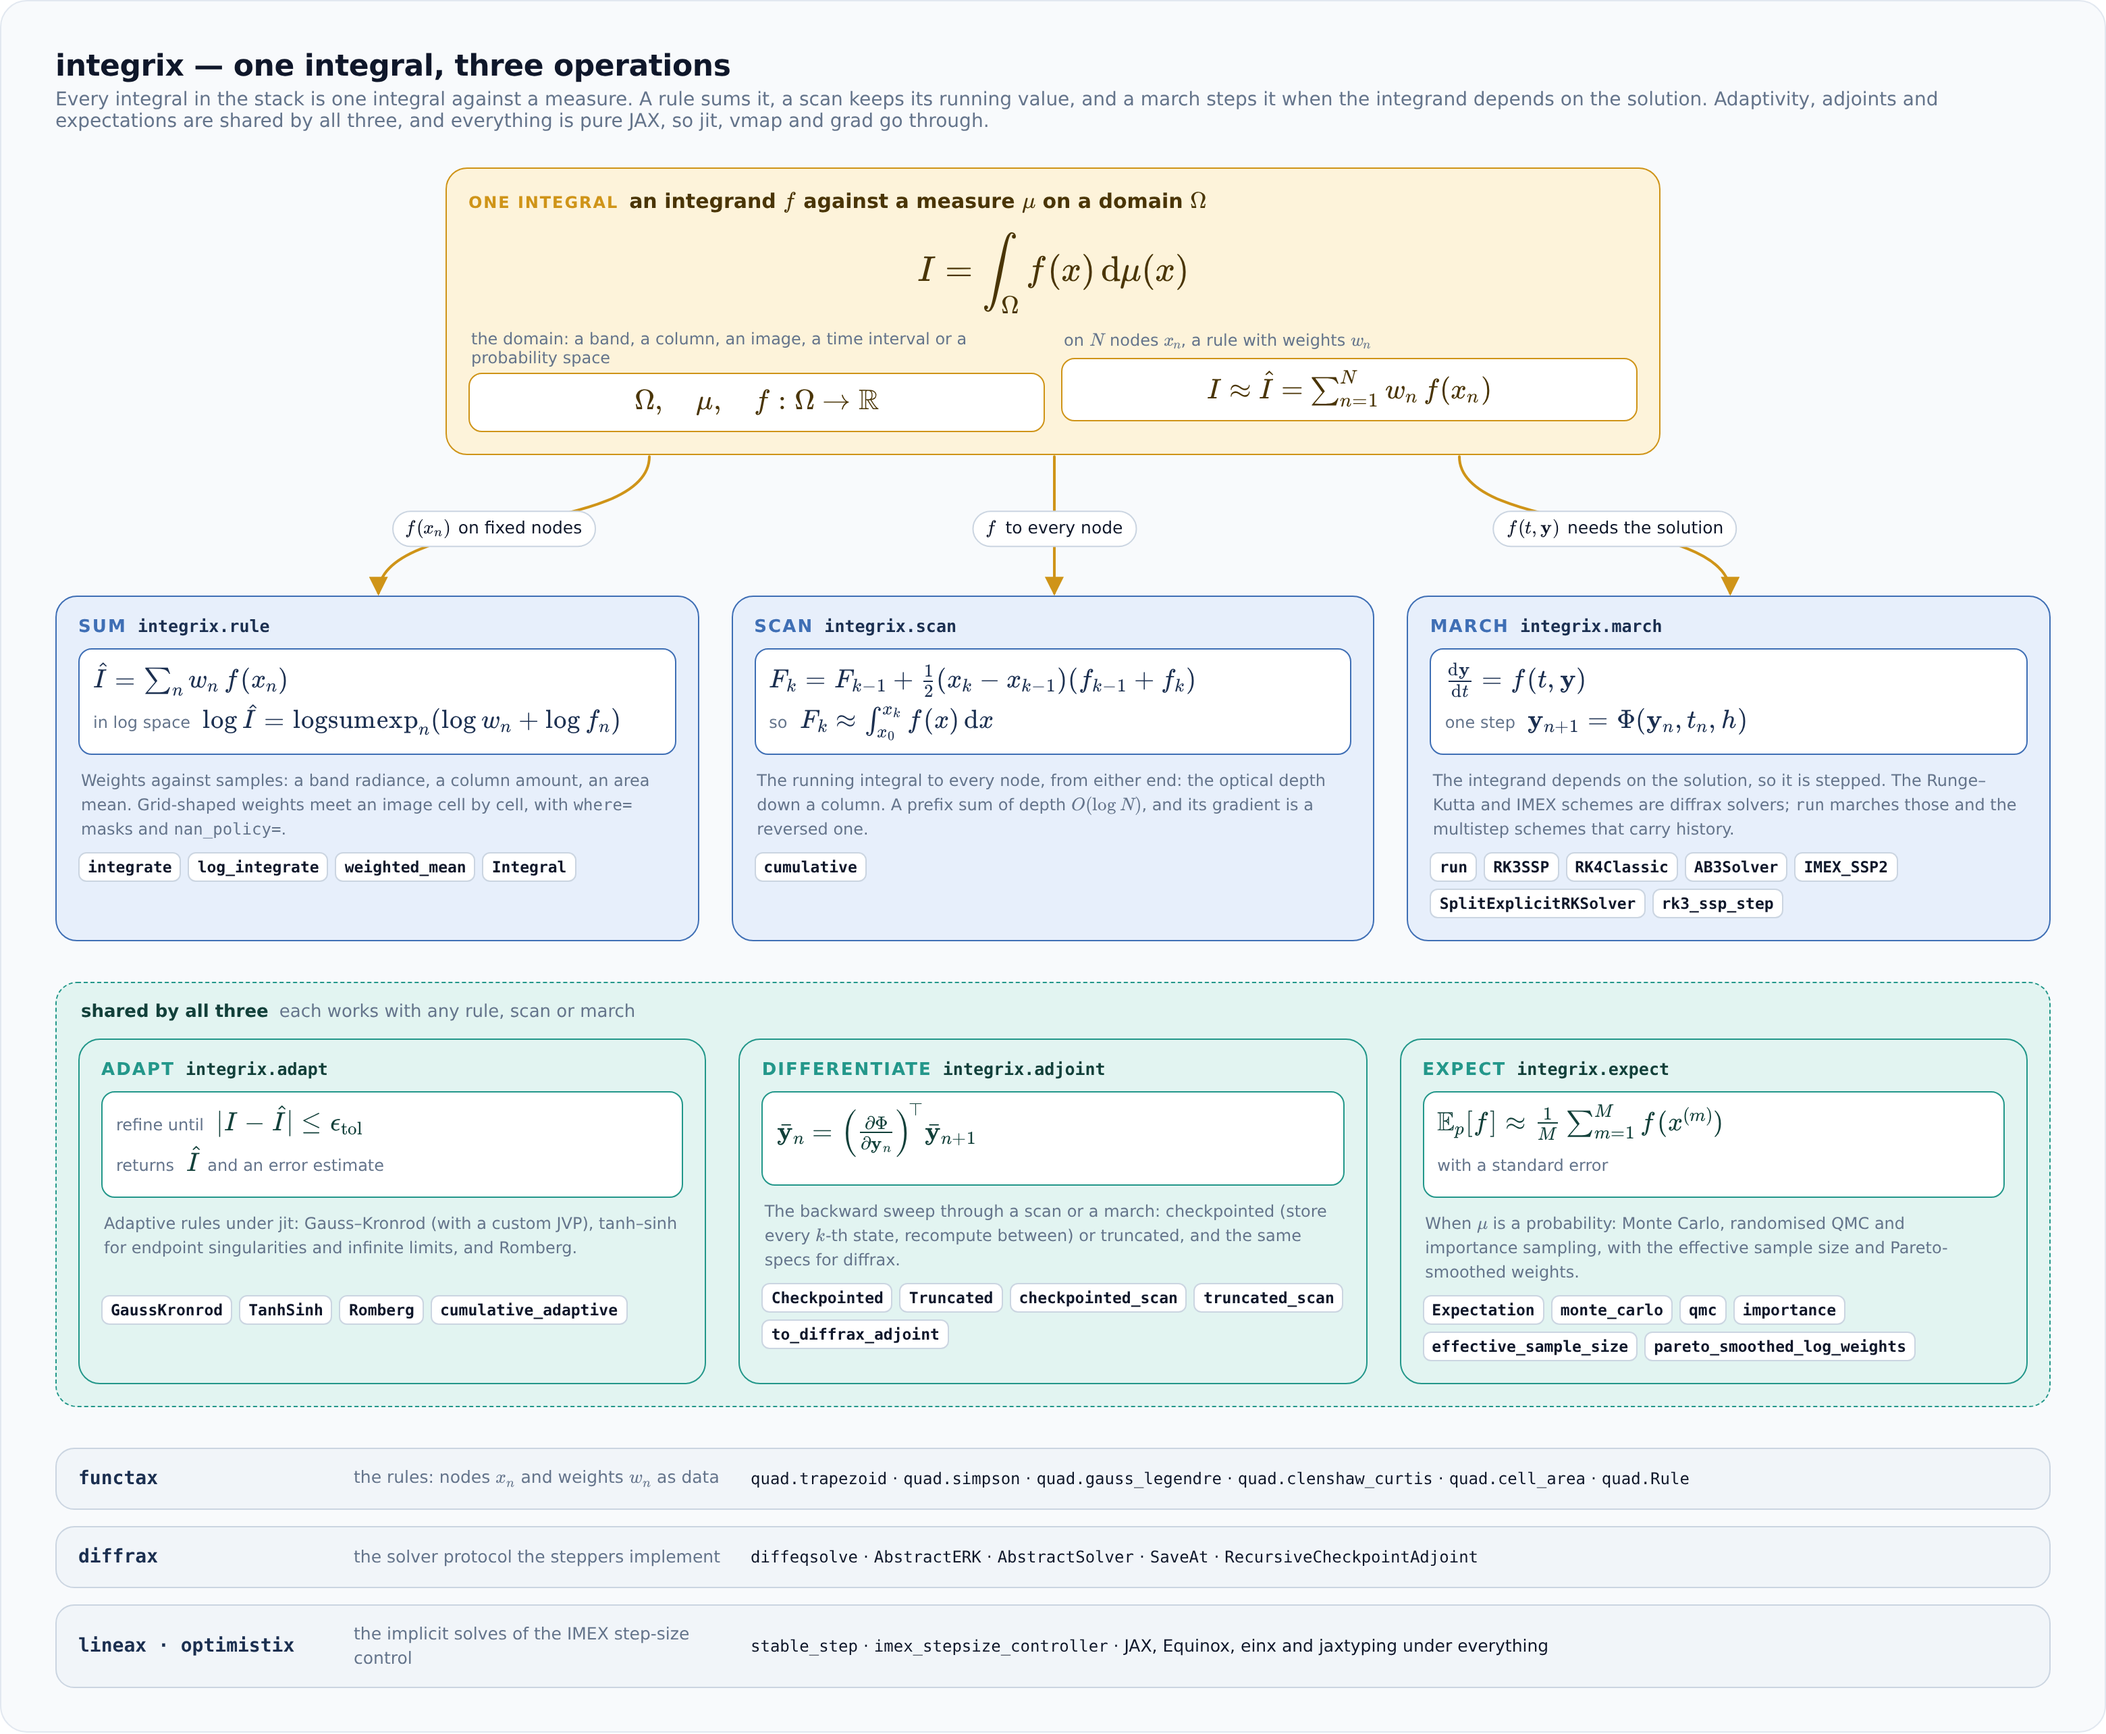
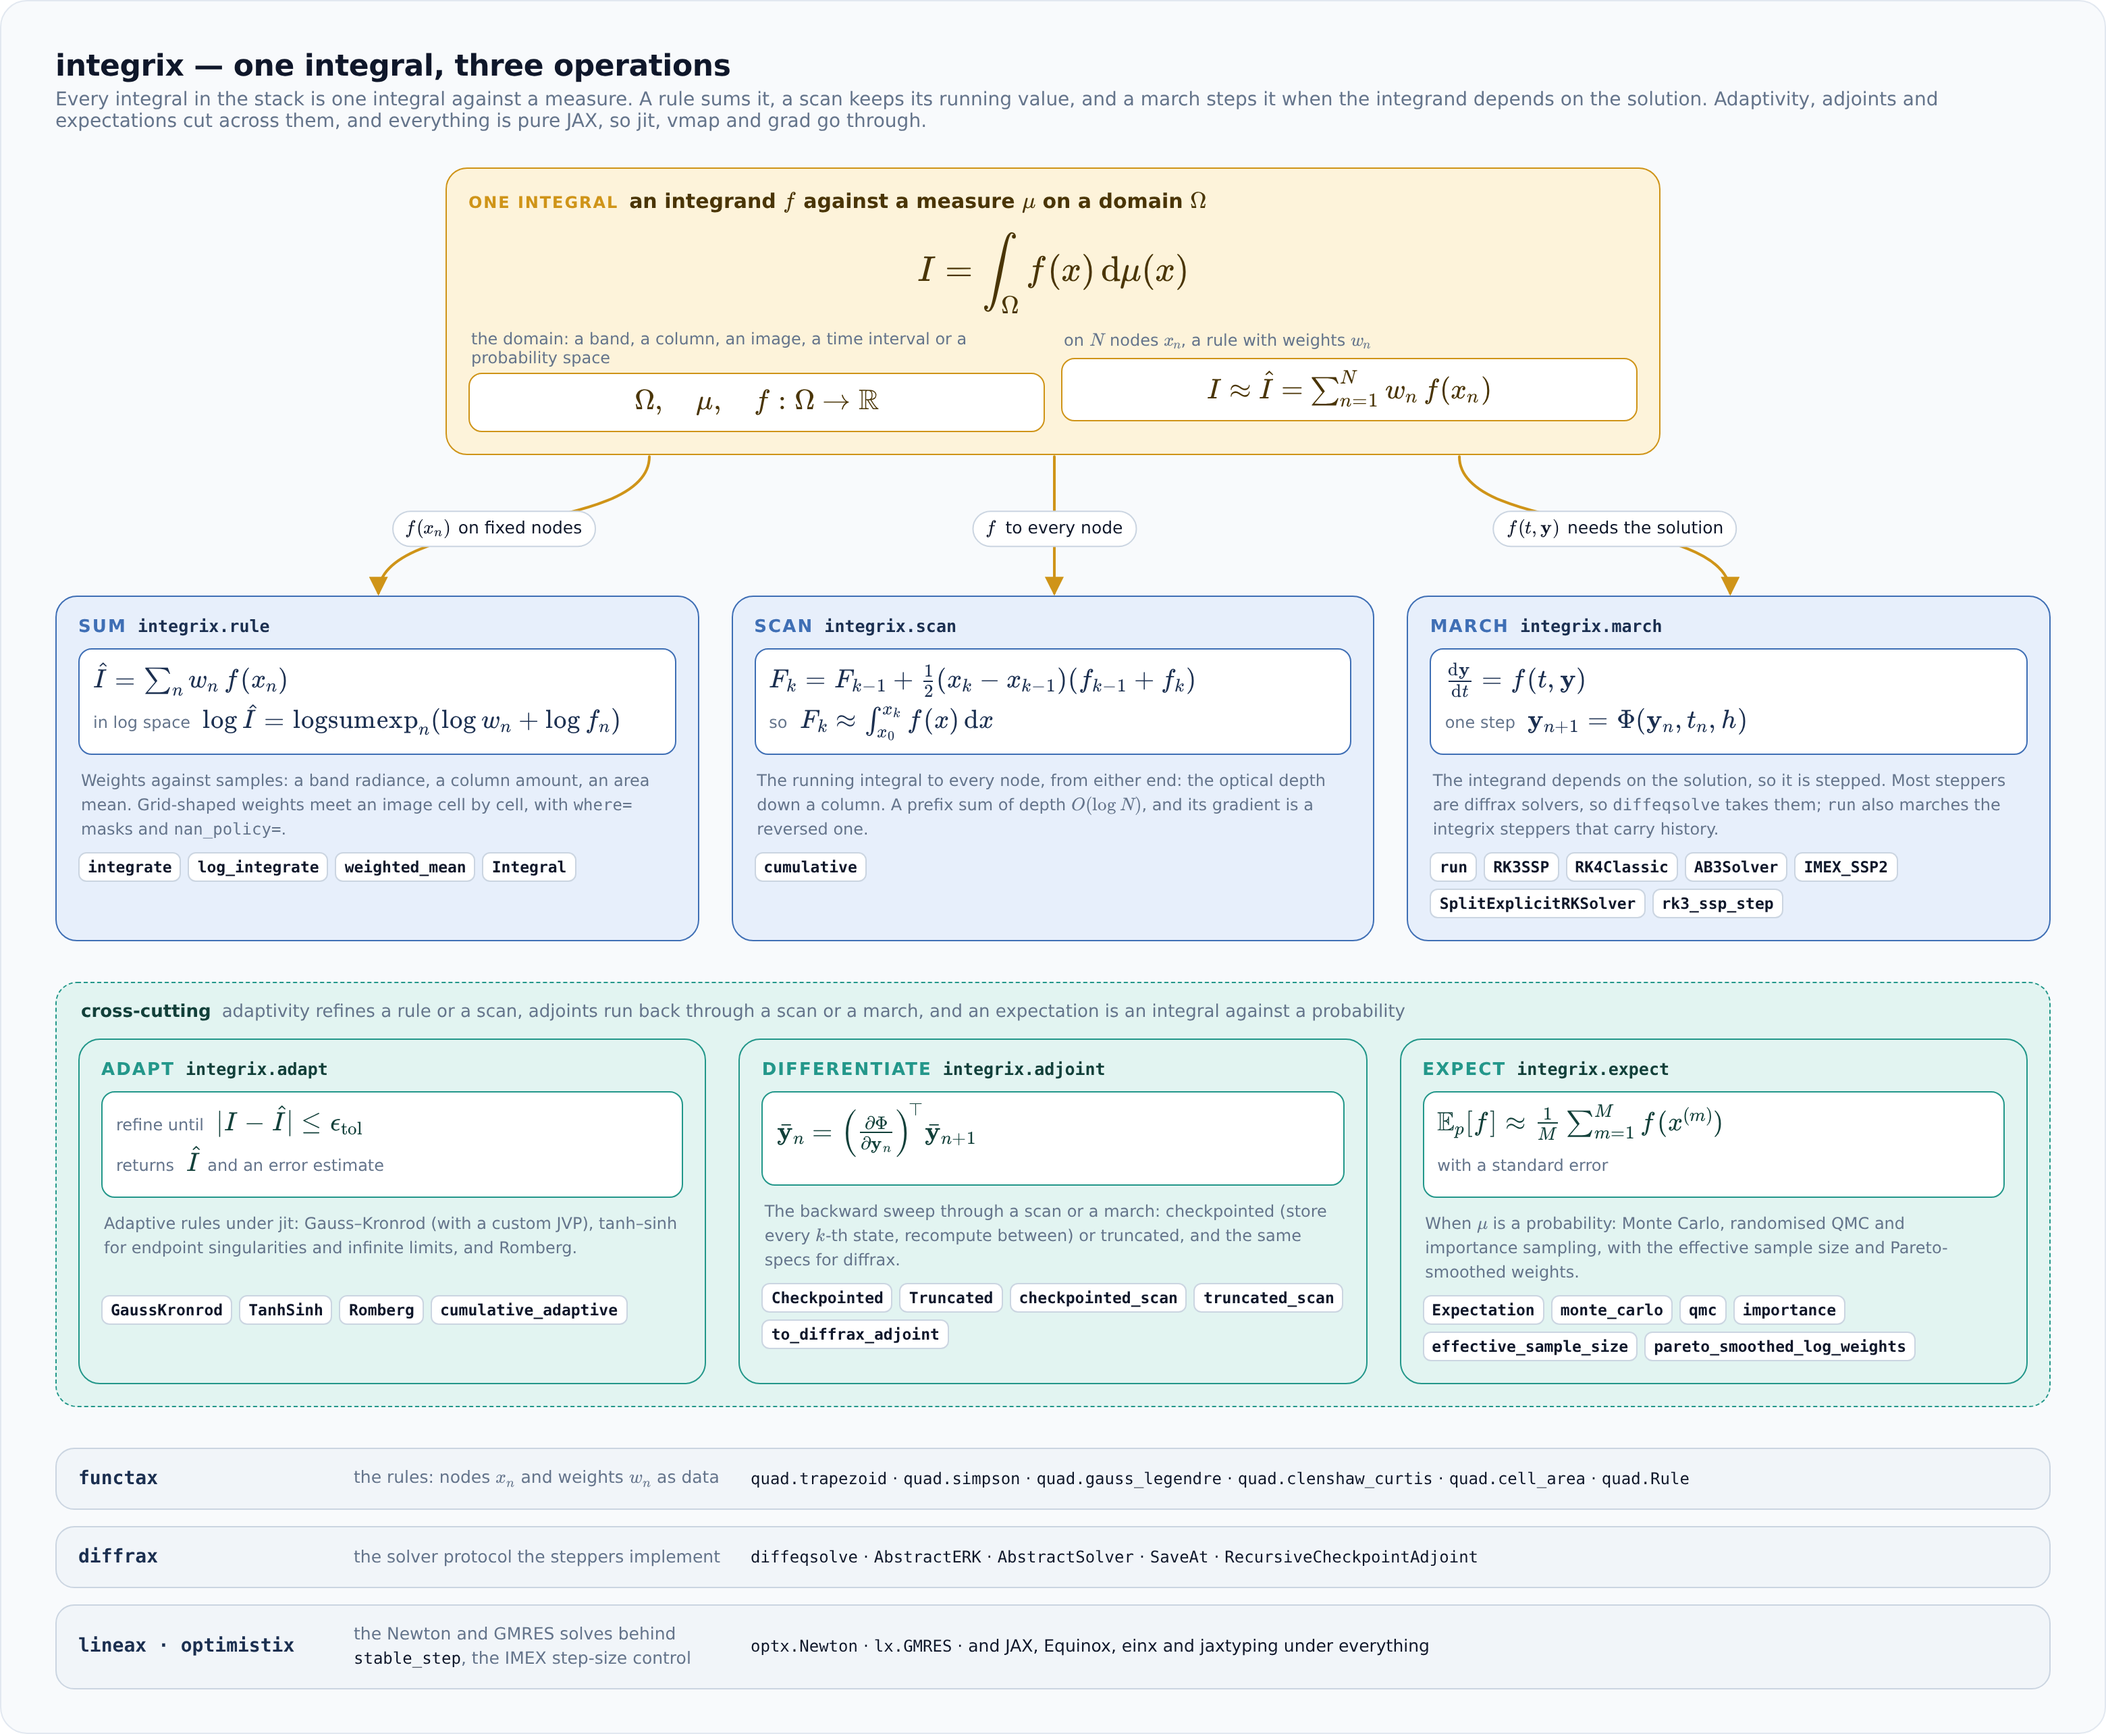
docs(images): integrix overview, cross-cutting band and floor text corrected

diff --git a/docs/images/libraries/integrix_overview/integrix_overview.html b/docs/images/libraries/integrix_overview/integrix_overview.html
@@ -65,7 +65,7 @@
 <body>
 <div id="diagram">
   <div class="title">integrix — one integral, three operations</div>
-  <div class="subtitle">Every integral in the stack is one integral against a measure. A rule sums it, a scan keeps its running value, and a march steps it when the integrand depends on the solution. Adaptivity, adjoints and expectations are shared by all three, and everything is pure JAX, so jit, vmap and grad go through.</div>
+  <div class="subtitle">Every integral in the stack is one integral against a measure. A rule sums it, a scan keeps its running value, and a march steps it when the integrand depends on the solution. Adaptivity, adjoints and expectations cut across them, and everything is pure JAX, so jit, vmap and grad go through.</div>
 
   <div class="lane compute ix-obj" id="obj">
     <div class="lane-head"><span class="verb">one integral</span><span class="pkg">an integrand <span class="m">f</span> against a measure <span class="m">\mu</span> on a domain <span class="m">\Omega</span></span></div>
@@ -100,13 +100,13 @@
     <div class="lane cut ix-card" id="op-march">
       <div class="lane-head"><span class="verb">march</span><span class="ix-mod">integrix.march</span></div>
       <div class="ix-eq"><span class="m">\frac{\mathrm{d}\mathbf{y}}{\mathrm{d}t} = f(t, \mathbf{y})</span><br><span class="k">one step</span> <span class="m">\mathbf{y}_{n+1} = \Phi(\mathbf{y}_n, t_n, h)</span></div>
-      <div class="ix-desc">The integrand depends on the solution, so it is stepped. The Runge–Kutta and IMEX schemes are diffrax solvers; <code>run</code> marches those and the multistep schemes that carry history.</div>
+      <div class="ix-desc">The integrand depends on the solution, so it is stepped. Most steppers are diffrax solvers, so <code>diffeqsolve</code> takes them; <code>run</code> also marches the integrix steppers that carry history.</div>
       <div class="ix-names"><code>run</code><code>RK3SSP</code><code>RK4Classic</code><code>AB3Solver</code><code>IMEX_SSP2</code><code>SplitExplicitRKSolver</code><code>rk3_ssp_step</code></div>
     </div>
   </div>
 
   <div class="ix-band">
-    <div class="ix-band-head">shared by all three<span>each works with any rule, scan or march</span></div>
+    <div class="ix-band-head">cross-cutting<span>adaptivity refines a rule or a scan, adjoints run back through a scan or a march, and an expectation is an integral against a probability</span></div>
     <div class="ix-row">
       <div class="lane read ix-card" id="op-adapt">
         <div class="lane-head"><span class="verb">adapt</span><span class="ix-mod">integrix.adapt</span></div>
@@ -144,8 +144,8 @@
     </div>
     <div class="ix-slab">
       <div class="lib">lineax · optimistix</div>
-      <div class="what">the implicit solves of the IMEX step-size control</div>
-      <div class="list"><code>stable_step</code> · <code>imex_stepsize_controller</code> · JAX, Equinox, einx and jaxtyping under everything</div>
+      <div class="what">the Newton and GMRES solves behind <code>stable_step</code>, the IMEX step-size control</div>
+      <div class="list"><code>optx.Newton</code> · <code>lx.GMRES</code> · and JAX, Equinox, einx and jaxtyping under everything</div>
     </div>
   </div>
 </div>
